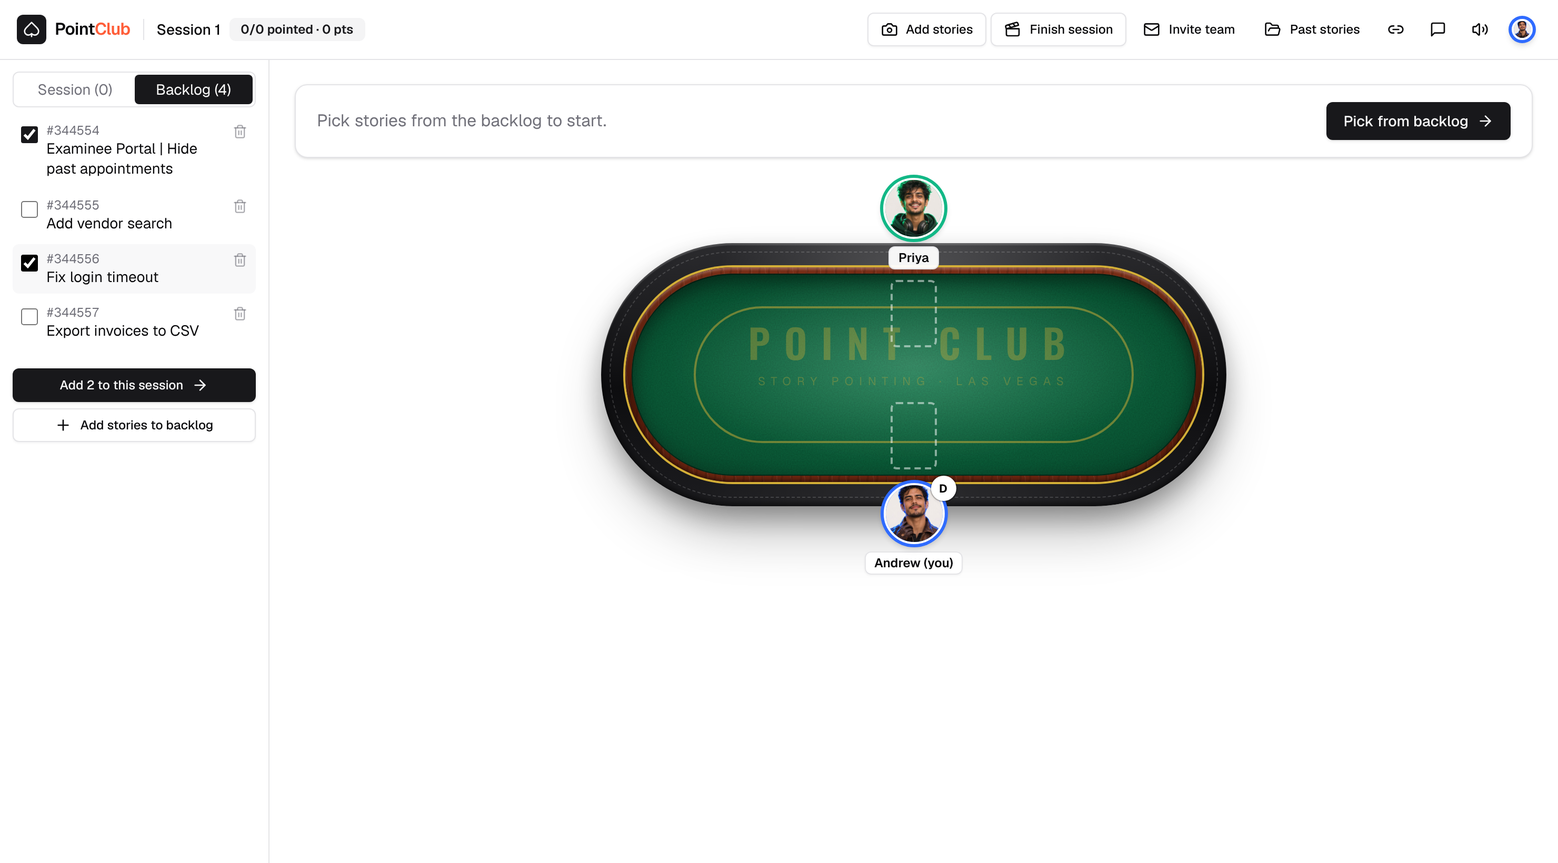
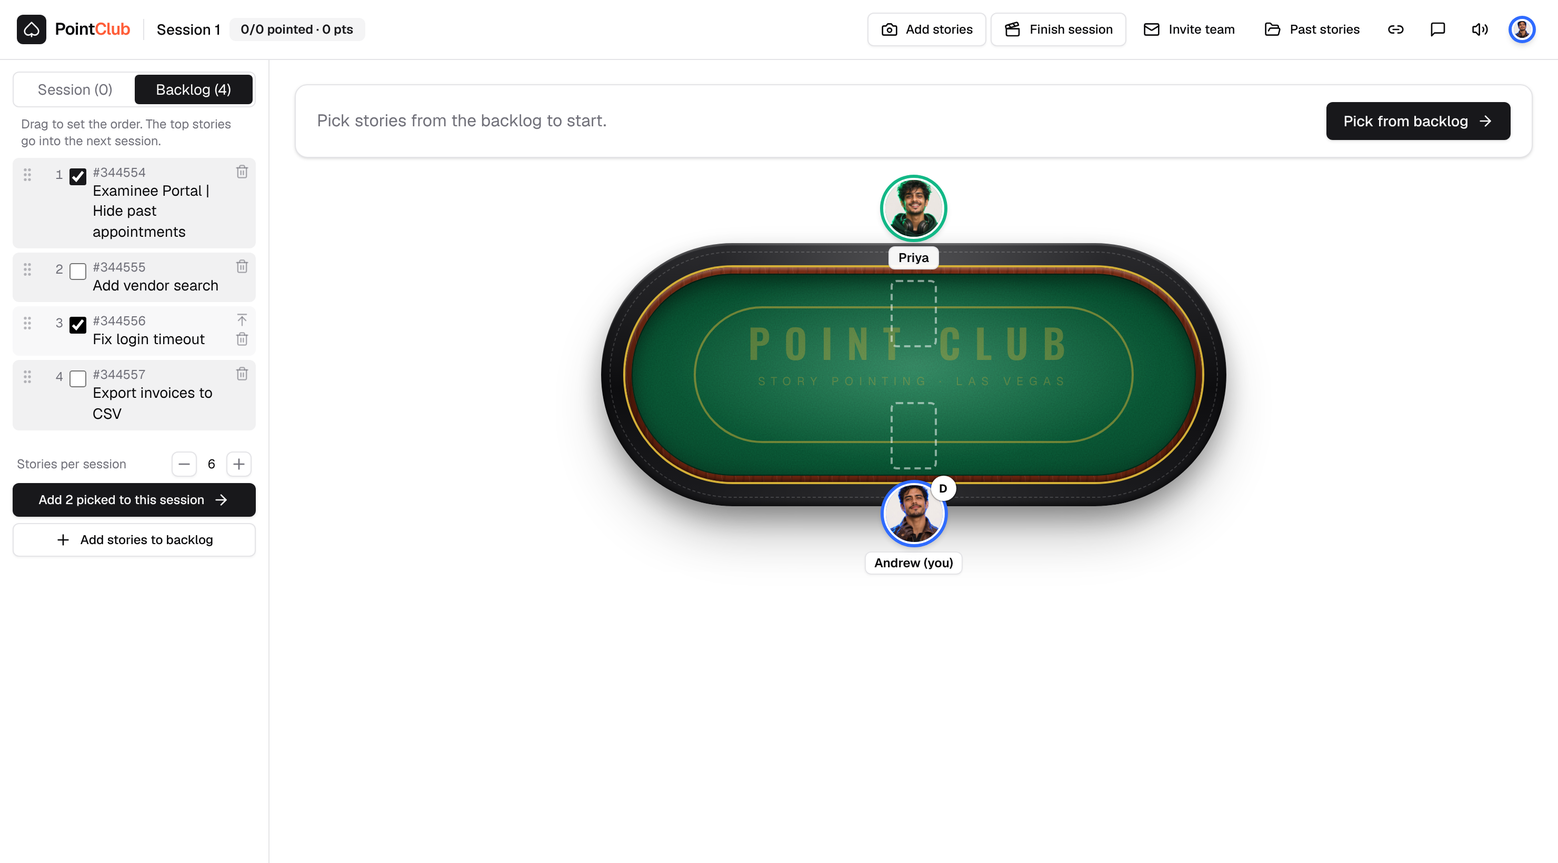
Rank the backlog by dragging, Next session line, start a session from the top
- Drag handles in the Backlog and Session tabs (host only), Move to top, rank numbers
- Next session line with a per-room count; one click moves the top stories in
- Invite email and agenda show the top of the backlog before the session starts
- Add stories: clearer where-to choice, row count, save bar always visible,
  password-manager icons kept out of the boxes

Claude-Session: https://claude.ai/code/session_01EANrJrMtc4n72hiZrseqCf

Changed region(s): [[0.0, 0.1244, 0.1865, 0.4976], [0.0, 0.5287, 0.1865, 0.653]]

diff --git a/src/screens/Theater.tsx b/src/screens/Theater.tsx
@@ -1,6 +1,6 @@
 import { useEffect, useRef, useState } from 'react'
 import { AnimatePresence, motion } from 'framer-motion'
-import { Camera, Clapperboard, Crown, ExternalLink, FolderOpen, Link2, RotateCcw, Volume2, VolumeX, UserRound, Eye, Check, Circle, MessageSquare, MessageSquareOff, ArrowRight, SkipForward, ListChecks, Undo2, Plus, Trash2, Mail } from 'lucide-react'
+import { Camera, Clapperboard, Crown, ExternalLink, FolderOpen, Link2, RotateCcw, Volume2, VolumeX, UserRound, Eye, Check, Circle, MessageSquare, MessageSquareOff, ArrowRight, SkipForward, ListChecks, Undo2, Plus, Minus, Trash2, Mail, ArrowUpToLine } from 'lucide-react'
 import { Avatar } from '@/components/Avatar'
 import { PokerTable } from '@/components/PokerTable'
 import { TicketCard, label } from '@/components/TicketCard'
@@ -15,6 +15,7 @@ import { Badge } from '@/components/ui/badge'
 import { Card, CardContent } from '@/components/ui/card'
 import { Separator } from '@/components/ui/separator'
 import { Tooltip, TooltipContent, TooltipTrigger } from '@/components/ui/tooltip'
+import { SortableList } from '@/components/SortableList'
 import { LoadStories } from './LoadStories'
 import { NewSprint } from './NewSprint'
 import { Credits } from './Credits'
@@ -44,6 +45,7 @@ export function Theater({ api, openVault, onLobby }: { api: RoomApi; openVault: 
   const [loadTo, setLoadTo] = useState<'backlog' | 'session'>('backlog')
   const [tab, setTab] = useState<'session' | 'backlog'>('session')
   const [picked, setPicked] = useState<string[]>([])
+  const nextCount = room?.nextCount ?? 6
   const [invite, setInvite] = useState<string | null>(null)
   const [showNewSprint, setShowNewSprint] = useState(false)
   const [creditsFor, setCreditsFor] = useState<string | null>(null)
@@ -131,7 +133,8 @@ export function Theater({ api, openVault, onLobby }: { api: RoomApi; openVault: 
   /** Ready-to-send invite: the session's stories with ADO links, plus the join and agenda links. */
   const inviteEmail = () => {
     const agenda = new URL(roomLink()); agenda.searchParams.set('agenda', '1')
-    const list = lineup.filter((s) => !s.points)
+    const open = lineup.filter((s) => !s.points)
+    const list = open.length ? open : backlog.slice(0, nextCount)
     return [
       'Hi team,',
       '',
@@ -208,34 +211,61 @@ export function Theater({ api, openVault, onLobby }: { api: RoomApi; openVault: 
             {tab === 'backlog' ? (
               <div className="grid gap-1">
                 {backlog.length === 0 && <p className="px-2 text-sm text-muted-foreground">The backlog is empty. {isHost ? 'Add stories here ahead of time, then pick the ones for each session.' : ''}</p>}
-                {backlog.map((s) => (
-                  <label key={s.id} className={cn('flex items-start gap-2 rounded-md px-2 py-1.5 text-sm', isHost && 'cursor-pointer hover:bg-secondary/60')} title={s.note || s.title}>
-                    {isHost && <input type="checkbox" className="mt-1 h-4 w-4 accent-[hsl(var(--primary))]" checked={picked.includes(s.id)}
-                      onChange={(e) => setPicked((p) => (e.target.checked ? [...p, s.id] : p.filter((x) => x !== s.id)))} aria-label={`Pick #${s.number}`} />}
-                    <span className="min-w-0 flex-1">
-                      <span className="block font-mono text-xs text-muted-foreground">#{s.number}</span>
-                      <span className="block line-clamp-2 break-words leading-snug">{s.title}</span>
-                      {s.note && <span className="block text-xs text-amber-800 line-clamp-1">{s.note}</span>}
-                    </span>
-                    {isHost && <button className="mt-0.5 text-muted-foreground/60 hover:text-destructive" title="Delete from backlog" onClick={(e) => { e.preventDefault(); if (confirm(`Delete #${s.number} from the backlog?`)) actions.removeStory(s.id) }}><Trash2 className="h-3.5 w-3.5" /></button>}
-                  </label>
-                ))}
+                {backlog.length > 0 && <p className="px-2 pb-1 text-xs text-muted-foreground">{isHost ? 'Drag to set the order. The top stories go into the next session.' : 'In order. The top stories are up next.'}</p>}
+                <SortableList items={backlog} enabled={isHost} onReorder={actions.reorder}
+                  between={(i) => i === nextCount - 1 && backlog.length > nextCount
+                    ? <div className="my-1 flex items-center gap-2 px-2 text-[11px] font-medium uppercase tracking-wide text-primary" data-testid="next-line"><span className="h-px flex-1 border-t border-dashed border-primary/60" />↑ Next session ({nextCount})<span className="h-px flex-1 border-t border-dashed border-primary/60" /></div>
+                    : null}
+                  renderItem={(s, i, handle) => (
+                    <label className={cn('group flex items-start gap-1.5 rounded-md px-1.5 py-1.5 text-sm', isHost && 'cursor-pointer hover:bg-secondary/60', i < nextCount && 'bg-primary/[0.06]')} title={s.note || s.title} data-testid="backlog-row">
+                      {handle}
+                      <span className="mt-0.5 w-5 shrink-0 text-right font-mono text-xs text-muted-foreground">{i + 1}</span>
+                      {isHost && <input type="checkbox" className="mt-1 h-4 w-4 accent-[hsl(var(--primary))]" checked={picked.includes(s.id)}
+                        onChange={(e) => setPicked((p) => (e.target.checked ? [...p, s.id] : p.filter((x) => x !== s.id)))} aria-label={`Pick #${s.number}`} />}
+                      <span className="min-w-0 flex-1">
+                        <span className="block font-mono text-xs text-muted-foreground">#{s.number}</span>
+                        <span className="block line-clamp-2 break-words leading-snug">{s.title}</span>
+                        {s.note && <span className="block text-xs text-amber-800 line-clamp-1">{s.note}</span>}
+                      </span>
+                      {isHost && <span className="flex flex-col gap-1">
+                        {i > 0 && <button className="hidden text-muted-foreground/60 hover:text-foreground group-hover:block" title="Move to top" aria-label={`Move #${s.number} to top`}
+                          onClick={(e) => { e.preventDefault(); actions.reorder([s.id, ...backlog.filter((x) => x.id !== s.id).map((x) => x.id)]) }}><ArrowUpToLine className="h-3.5 w-3.5" /></button>}
+                        <button className="text-muted-foreground/60 hover:text-destructive" title="Delete from backlog" onClick={(e) => { e.preventDefault(); if (confirm(`Delete #${s.number} from the backlog?`)) actions.removeStory(s.id) }}><Trash2 className="h-3.5 w-3.5" /></button>
+                      </span>}
+                    </label>
+                  )} />
                 {isHost && <div className="sticky bottom-0 mt-2 grid gap-1.5 bg-background pt-2">
-                  <Button size="sm" disabled={!picked.length} onClick={async () => { await actions.moveToSession(picked); setPicked([]); setTab('session') }}>
-                    Add {picked.length || ''} to this session <ArrowRight />
-                  </Button>
+                  {backlog.length > 0 && <>
+                    <div className="flex items-center justify-between px-1 text-xs text-muted-foreground">
+                      <span>Stories per session</span>
+                      <span className="flex items-center gap-1">
+                        <Button size="icon" variant="outline" className="h-6 w-6" aria-label="Fewer per session" disabled={nextCount <= 1} onClick={() => actions.setNextCount(nextCount - 1)}><Minus className="h-3 w-3" /></Button>
+                        <span className="w-5 text-center font-mono text-foreground" data-testid="next-count">{nextCount}</span>
+                        <Button size="icon" variant="outline" className="h-6 w-6" aria-label="More per session" disabled={nextCount >= 30} onClick={() => actions.setNextCount(nextCount + 1)}><Plus className="h-3 w-3" /></Button>
+                      </span>
+                    </div>
+                    {picked.length === 0 && <Button size="sm" onClick={async () => { await actions.moveToSession(backlog.slice(0, nextCount).map((s) => s.id)); setTab('session') }}>
+                      Start this session with the top {Math.min(nextCount, backlog.length)} <ArrowRight />
+                    </Button>}
+                  </>}
+                  {picked.length > 0 && <Button size="sm" onClick={async () => { await actions.moveToSession(backlog.filter((s) => picked.includes(s.id)).map((s) => s.id)); setPicked([]); setTab('session') }}>
+                    Add {picked.length} picked to this session <ArrowRight />
+                  </Button>}
                   <Button size="sm" variant="outline" onClick={() => { setLoadTo('backlog'); setShowLoad(true) }}><Plus /> Add stories to backlog</Button>
                 </div>}
               </div>
             ) : <>
             {lineup.length === 0 && <p className="text-sm text-muted-foreground px-2">No stories in this session yet. {isHost ? (backlog.length ? 'Pick some from the Backlog tab.' : 'Click “Add stories” to start.') : 'Waiting for the host.'}</p>}
             <nav className="grid gap-0.5">
-              {lineup.map((s) => (
-                <button key={s.id} onClick={() => isHost && actions.selectStory(s.id)} disabled={!isHost}
+              <SortableList items={lineup} enabled={isHost} canDrag={(s) => !s.points && !s.skipped} onReorder={actions.reorder}
+                renderItem={(s, _i, handle) => (
+                <div role="button" tabIndex={isHost ? 0 : -1} onClick={() => isHost && actions.selectStory(s.id)} data-testid="session-row"
+                  onKeyDown={(e) => { if (isHost && e.key === 'Enter') actions.selectStory(s.id) }}
                   title={s.points ? `Done: ${s.points} points. Click to view or revote.` : s.skipped ? `Skipped, goes back to the backlog${s.note ? `: ${s.note}` : ''}` : s.note || undefined}
-                  className={cn('group flex items-start gap-2 rounded-md px-2 py-1.5 text-left text-sm transition-colors disabled:cursor-default',
+                  className={cn('group flex items-start gap-1.5 rounded-md px-1.5 py-1.5 text-left text-sm transition-colors', isHost ? 'cursor-pointer' : 'cursor-default',
                     s.id === current?.id ? 'bg-secondary font-medium' : 'hover:bg-secondary/60 text-muted-foreground',
                     (s.points || s.skipped) && s.id !== current?.id && 'opacity-55')}>
+                  {isHost && handle}
                   {s.points ? <Check className="mt-0.5 h-4 w-4 text-emerald-600 shrink-0" />
                     : s.skipped ? <SkipForward className="mt-0.5 h-4 w-4 shrink-0 text-amber-600" />
                     : <Circle className="mt-0.5 h-4 w-4 shrink-0 text-muted-foreground/50" />}
@@ -247,8 +277,8 @@ export function Theater({ api, openVault, onLobby }: { api: RoomApi; openVault: 
                   {s.skipped && !s.points && <Badge variant="outline" className="border-amber-300 bg-amber-50 text-amber-800">Skipped</Badge>}
                   {isHost && !s.points && <span role="button" tabIndex={0} title="Move back to backlog" className="mt-0.5 hidden text-muted-foreground/60 hover:text-foreground group-hover:inline"
                     onClick={(e) => { e.stopPropagation(); actions.moveToBacklog(s.id) }}><Undo2 className="h-3.5 w-3.5" /></span>}
-                </button>
-              ))}
+                </div>
+              )} />
             </nav>
             </>}
             {away.length > 0 && <>

diff --git a/src/screens/LoadStories.tsx b/src/screens/LoadStories.tsx
@@ -26,6 +26,9 @@ function learnPattern(rows: Row[], fallback: string) {
   return fallback
 }
 
+// Password managers mistake these boxes for login fields and add their own icons; tell them to stay out.
+const NO_AUTOFILL = { autoComplete: 'off', 'data-lpignore': 'true', 'data-1p-ignore': 'true', 'data-bwignore': 'true', 'data-form-type': 'other' } as const
+
 export function LoadStories({ api, open, onClose, defaultTo = 'backlog' }: { api: RoomApi; open: boolean; onClose: () => void; defaultTo?: 'backlog' | 'session' }) {
   const { room, actions } = api
   const [rows, setRows] = useState<Row[]>(() => Array.from({ length: BLANK_ROWS }, blank))
@@ -111,7 +114,7 @@ export function LoadStories({ api, open, onClose, defaultTo = 'backlog' }: { api
         </DialogHeader>
 
         <div className="flex items-center gap-2 text-sm">
-          <span className="text-muted-foreground">Add to:</span>
+          <span className="text-muted-foreground">Where should these go?</span>
           <div className="inline-flex rounded-md border p-0.5">
             {(['backlog', 'session'] as const).map((k) => (
               <button key={k} type="button" onClick={() => setTo(k)}
@@ -120,19 +123,20 @@ export function LoadStories({ api, open, onClose, defaultTo = 'backlog' }: { api
               </button>
             ))}
           </div>
-          <span className="text-xs text-muted-foreground">{to === 'backlog' ? 'Pick them for a session later.' : 'Ready to vote on now.'}</span>
+          <span className="text-xs text-muted-foreground">{to === 'backlog' ? 'Rank them in the Backlog tab. The top ones go into the next session.' : 'Vote on them in this session now.'}</span>
         </div>
 
         <div className="rounded-md border">
+          {ready.length > 6 && <div className="border-b px-3 py-1.5 text-xs text-muted-foreground" data-testid="row-count">{ready.length} stories in the list. Scroll inside the table to see them all.</div>}
           <div className="grid grid-cols-[6.5rem_1fr_minmax(0,15rem)_2.25rem] gap-2 border-b bg-muted/40 px-3 py-2 text-xs font-medium text-muted-foreground">
             <span>Story #</span><span>Title</span><span>ADO link</span><span />
           </div>
           <div className="max-h-[42vh] overflow-y-auto p-2 grid gap-1.5">
             {rows.map((r, i) => (
               <div key={i} className="grid grid-cols-[6.5rem_1fr_minmax(0,15rem)_2.25rem] items-center gap-2">
-                <Input className="h-8 font-mono" placeholder="e.g. 48213" inputMode="numeric" value={r.number} onChange={(e) => setRow(i, { number: e.target.value.replace(/\D/g, '') })} aria-label={`Story number, row ${i + 1}`} />
-                <Input className="h-8" title={r.title} placeholder={i === 0 ? "Story title" : ""} value={r.title} onChange={(e) => setRow(i, { title: e.target.value })} aria-label={`Title, row ${i + 1}`} />
-                <Input className="h-8 font-mono text-xs" placeholder={r.number && pattern ? buildAdoUrl(pattern, r.number) : 'Paste link (optional)'} value={r.url} onChange={(e) => setRow(i, { url: e.target.value })} aria-label={`ADO link, row ${i + 1}`} />
+                <Input {...NO_AUTOFILL} className="h-8 font-mono" placeholder="e.g. 48213" inputMode="numeric" value={r.number} onChange={(e) => setRow(i, { number: e.target.value.replace(/\D/g, '') })} aria-label={`Story number, row ${i + 1}`} />
+                <Input {...NO_AUTOFILL} className="h-8" title={r.title} placeholder={i === 0 ? "Story title" : ""} value={r.title} onChange={(e) => setRow(i, { title: e.target.value })} aria-label={`Title, row ${i + 1}`} />
+                <Input {...NO_AUTOFILL} className="h-8 font-mono text-xs" placeholder={r.number && pattern ? buildAdoUrl(pattern, r.number) : 'Paste link (optional)'} value={r.url} onChange={(e) => setRow(i, { url: e.target.value })} aria-label={`ADO link, row ${i + 1}`} />
                 <Button variant="ghost" size="icon" className="h-8 w-8" aria-label="Remove row" onClick={() => setRows((x) => (x.length > 1 ? x.filter((_, j) => j !== i) : [blank()]))}><Trash2 /></Button>
               </div>
             ))}
@@ -184,7 +188,7 @@ export function LoadStories({ api, open, onClose, defaultTo = 'backlog' }: { api
         {error && <div className="flex items-start gap-2 rounded-md border border-destructive/30 bg-destructive/5 p-3 text-sm text-destructive"><AlertCircle className="mt-0.5 h-4 w-4 shrink-0" />{error}</div>}
         {savedNote && <div className="flex items-center gap-2 text-sm text-emerald-700"><Check className="h-4 w-4" />{savedNote}</div>}
 
-        <DialogFooter className="items-center gap-2">
+        <DialogFooter className="sticky -bottom-6 -mx-6 -mb-6 items-center gap-2 border-t bg-background px-6 py-4">
           {incomplete > 0 && <span className="mr-auto text-xs text-amber-700">{incomplete} {incomplete === 1 ? 'row needs' : 'rows need'} both a number and a title.</span>}
           <Button variant="outline" onClick={onClose} disabled={saving}>Cancel</Button>
           <Button onClick={save} disabled={saving || ready.length === 0}>

diff --git a/src/components/SortableList.tsx b/src/components/SortableList.tsx
@@ -1,0 +1,59 @@
+import { Fragment, type ReactNode } from 'react'
+import { DndContext, KeyboardSensor, PointerSensor, closestCenter, useSensor, useSensors, type DragEndEvent } from '@dnd-kit/core'
+import { SortableContext, arrayMove, sortableKeyboardCoordinates, useSortable, verticalListSortingStrategy } from '@dnd-kit/sortable'
+import { CSS } from '@dnd-kit/utilities'
+import { GripVertical } from 'lucide-react'
+import { cn } from '@/lib/utils'
+
+/** The drag handle (⋮⋮). Only shown when the list can be reordered. */
+export type Handle = ReactNode
+
+function Row({ id, canDrag, children }: { id: string; canDrag: boolean; children: (handle: Handle) => ReactNode }) {
+  const { attributes, listeners, setNodeRef, transform, transition, isDragging } = useSortable({ id, disabled: !canDrag })
+  const handle = canDrag ? (
+    <span {...attributes} {...listeners} role="button" aria-label="Drag to reorder" title="Drag to reorder"
+      className="mt-0.5 cursor-grab touch-none text-muted-foreground/50 hover:text-foreground active:cursor-grabbing"
+      onClick={(e) => { e.preventDefault(); e.stopPropagation() }}>
+      <GripVertical className="h-4 w-4" />
+    </span>
+  ) : <span className="w-4 shrink-0" />
+  return (
+    <div ref={setNodeRef} style={{ transform: CSS.Translate.toString(transform), transition }}
+      className={cn('relative', isDragging && 'z-10 rounded-md bg-background shadow-lg ring-1 ring-border')}>
+      {children(handle)}
+    </div>
+  )
+}
+
+/** A vertical list the host can reorder by dragging the handle (mouse, touch or keyboard). */
+export function SortableList<T extends { id: string }>({ items, enabled, canDrag = () => true, onReorder, renderItem, between }: {
+  items: T[]
+  enabled: boolean
+  canDrag?: (item: T) => boolean
+  onReorder: (ids: string[]) => void
+  renderItem: (item: T, index: number, handle: Handle) => ReactNode
+  /** Optional content shown after the item at this index (e.g. the "Next session" line). */
+  between?: (index: number) => ReactNode
+}) {
+  const sensors = useSensors(
+    useSensor(PointerSensor, { activationConstraint: { distance: 4 } }),
+    useSensor(KeyboardSensor, { coordinateGetter: sortableKeyboardCoordinates }),
+  )
+  const onDragEnd = ({ active, over }: DragEndEvent) => {
+    if (!over || active.id === over.id) return
+    const ids = items.map((x) => x.id)
+    onReorder(arrayMove(ids, ids.indexOf(String(active.id)), ids.indexOf(String(over.id))))
+  }
+  return (
+    <DndContext sensors={sensors} collisionDetection={closestCenter} onDragEnd={onDragEnd}>
+      <SortableContext items={items.map((x) => x.id)} strategy={verticalListSortingStrategy}>
+        {items.map((item, i) => (
+          <Fragment key={item.id}>
+            <Row id={item.id} canDrag={enabled && canDrag(item)}>{(h) => renderItem(item, i, h)}</Row>
+            {between?.(i)}
+          </Fragment>
+        ))}
+      </SortableContext>
+    </DndContext>
+  )
+}

diff --git a/src/lib/useRoom.ts b/src/lib/useRoom.ts
@@ -8,6 +8,13 @@ import type { CardValue, LiveEvent, Member, Room, Snapshot, Sprint, Story } from
 /** A story still waiting for points this sprint (not pointed, not skipped). */
 export const isOpen = (s: Story) => !s.points && !s.skipped
 
+/** Renumber stories 0..n in the given order; returns only the ones whose order changed. */
+export function reorderRows(stories: Story[], ids: string[]): Story[] {
+  const out: Story[] = []
+  ids.forEach((id, i) => { const s = stories.find((x) => x.id === id); if (s && s.order !== i) out.push({ ...s, order: i }) })
+  return out
+}
+
 const EMPTY: Snapshot ={ room: null, members: [], sprints: [], stories: [], votes: [] }
 
 export function useRoom(roomId: string) {
@@ -165,6 +172,14 @@ export function useRoom(roomId: string) {
       await db.upsertStories([{ ...s, sprintId: backlogId, order: base, points: null, outcome: null, skipped: false }])
       if (room.currentStoryId === id) await goToNextOpen(s)
     },
+    /** Save a new top-to-bottom order for a list (backlog or session). Only stories whose place changed are written. */
+    async reorder(ids: string[]) {
+      const changed = reorderRows(stories, ids)
+      if (!changed.length) return
+      setSnap((p) => ({ ...p, stories: p.stories.map((s) => changed.find((c) => c.id === s.id) ?? s) })) // no snap-back while saving
+      await db.upsertStories(changed)
+    },
+    async setNextCount(n: number) { await patchRoom({ nextCount: Math.max(1, Math.min(30, Math.round(n))) }) },
     async editStory(s: Story) { await db.upsertStories([s]) },
     async removeStory(id: string) {
       await db.removeStory(id)

diff --git a/src/lib/logic.test.ts b/src/lib/logic.test.ts
@@ -1,6 +1,7 @@
 import { describe, expect, it } from 'vitest'
 import { judge } from './consensus'
 import { parseStories, buildAdoUrl, toAdoPattern } from './parseStories'
+import { reorderRows } from './useRoom'
 
 describe('judge', () => {
   it('all the same is a blockbuster, ignoring ? and coffee', () => {
@@ -78,4 +79,14 @@ describe('toAdoPattern', () => {
     expect(toAdoPattern('https://x/edit/{id}')).toBe('https://x/edit/{id}')
     expect(toAdoPattern('  ')).toBe('')
   })
+})
+
+describe('reorderRows', () => {
+  const mk = (id: string, order: number) => ({ id, order } as any)
+  it('renumbers in the new order and returns only rows that moved', () => {
+    const rows = [mk('a', 0), mk('b', 1), mk('c', 2), mk('d', 3)]
+    const out = reorderRows(rows, ['c', 'a', 'b', 'd'])
+    expect(out.map((r) => [r.id, r.order])).toEqual([['c', 0], ['a', 1], ['b', 2]])
+  })
+  it('writes nothing when the order is unchanged', () => expect(reorderRows([mk('a', 0), mk('b', 1)], ['a', 'b'])).toEqual([]))
 })

diff --git a/api/_core.ts b/api/_core.ts
@@ -8,7 +8,7 @@ const t = (name: string): Col => ({ name, type: 'text' })
 const i = (name: string): Col => ({ name, type: 'int' })
 const b = (name: string): Col => ({ name, type: 'bigint' })
 const TABLES = {
-  rooms: [t('id'), t('name'), t('host_id'), t('active_sprint_id'), t('current_story_id'), { name: 'revealed', type: 'bool' }, i('round'), t('ado_pattern')],
+  rooms: [t('id'), t('name'), t('host_id'), t('active_sprint_id'), t('current_story_id'), { name: 'revealed', type: 'bool' }, i('round'), t('ado_pattern'), i('next_count')],
   members: [t('id'), t('room_id'), t('name'), t('character'), t('status'), b('last_seen')],
   sprints: [t('id'), t('room_id'), t('name'), t('title'), b('started_at'), b('closed_at')],
   stories: [t('id'), t('room_id'), t('sprint_id'), t('number'), t('title'), t('url'), t('points'), t('outcome'), i('rounds'), i('order'), { name: 'skipped', type: 'bool' }, t('note')],

diff --git a/tests/api.test.ts b/tests/api.test.ts
@@ -62,6 +62,8 @@ describe('room api', () => {
     await post('patchRoom', { currentStoryId: 'st1', revealed: false, round: 1 }) // the second save that used to wipe the link
     const room = (await get()).body.snapshot.room
     expect(room).toMatchObject({ adoPattern: 'https://ado/edit/{id}', currentStoryId: 'st1', hostId: 'm1' })
+    await post('patchRoom', { nextCount: 5 })
+    expect((await get()).body.snapshot.room).toMatchObject({ nextCount: 5, adoPattern: 'https://ado/edit/{id}' })
     expect((await post('patchRoom', { version: 99 })).status).toBe(400) // not an allowed field
     expect((await post('patchRoom', { name: 'y' }, 'nope')).status).toBe(400) // room must exist
   })

diff --git a/src/screens/Agenda.tsx b/src/screens/Agenda.tsx
@@ -9,7 +9,9 @@ import type { RoomApi } from '@/lib/useRoom'
 
 /** Read-only story list for the upcoming session: share it before the meeting instead of an email. */
 export function Agenda({ api }: { api: RoomApi }) {
-  const { activeSprint, lineup } = api
+  const { activeSprint, room } = api
+  // Before stories are moved into the session, show the top of the backlog (what's up next).
+  const lineup = api.lineup.length ? api.lineup : api.backlog.slice(0, room?.nextCount ?? 6)
   const joinUrl = () => { const u = new URL(location.href); u.searchParams.delete('agenda'); return u.toString() }
   const pointed = lineup.filter((s) => s.points)
   return (

diff --git a/src/lib/types.ts b/src/lib/types.ts
@@ -52,6 +52,8 @@ export interface Room {
   revealed: boolean
   round: number
   adoPattern: string
+  /** How many backlog stories sit above the "Next session" line (default 6). */
+  nextCount?: number | null
 }
 export interface Snapshot {
   room: Room | null
